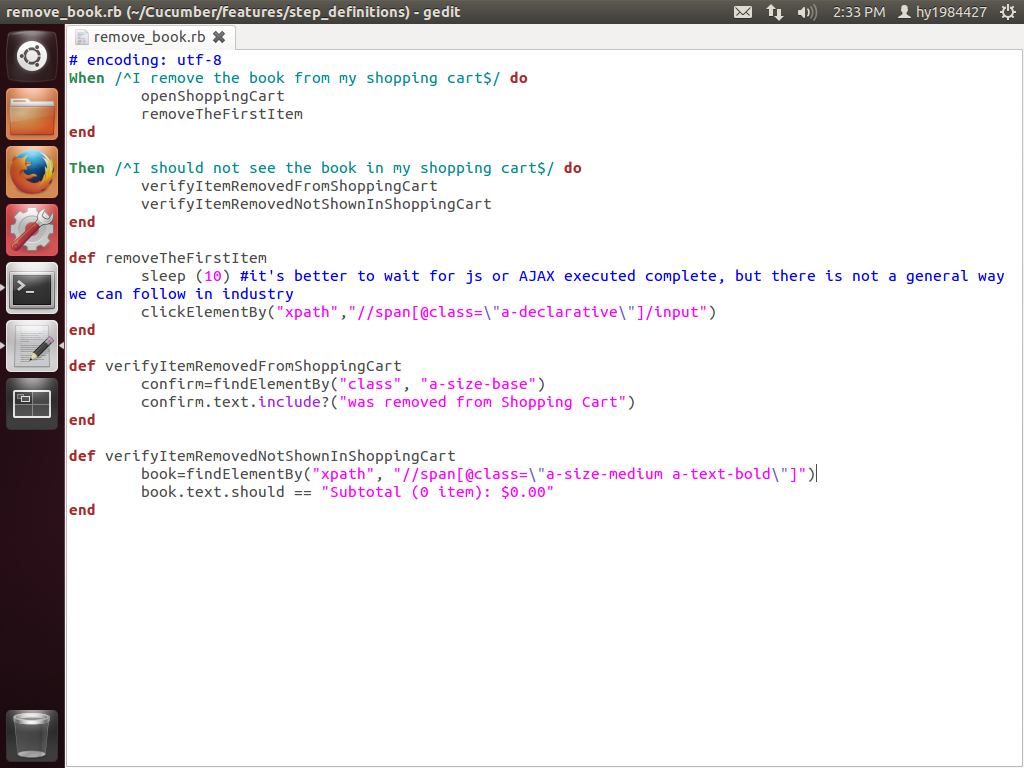
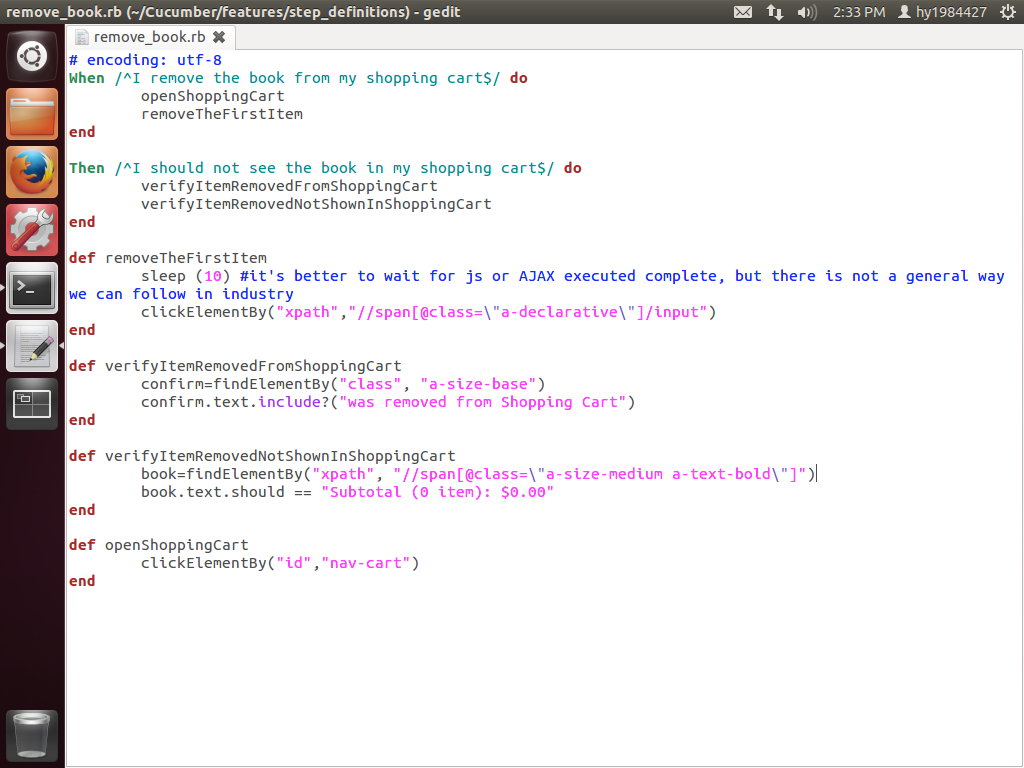
Correct one missing method.

diff --git a/UseBDDInTheRealWorld/AddStepDefinitionsForRemovingBook.md b/UseBDDInTheRealWorld/AddStepDefinitionsForRemovingBook.md
@@ -21,6 +21,10 @@ Then /^I should not see the book in my shopping cart$/ do
 	verifyItemRemovedNotShownInShoppingCart
 end
 
+def openShoppingCart
+    clickElementBy("id","nav-cart")
+end
+
 def removeTheFirstItem
 	sleep (10) #it's better to wait for js or AJAX executed complete, but there is not a general way we can follow in industry
 	clickElementBy("xpath","//span[@class=\"a-declarative\"]/input")
